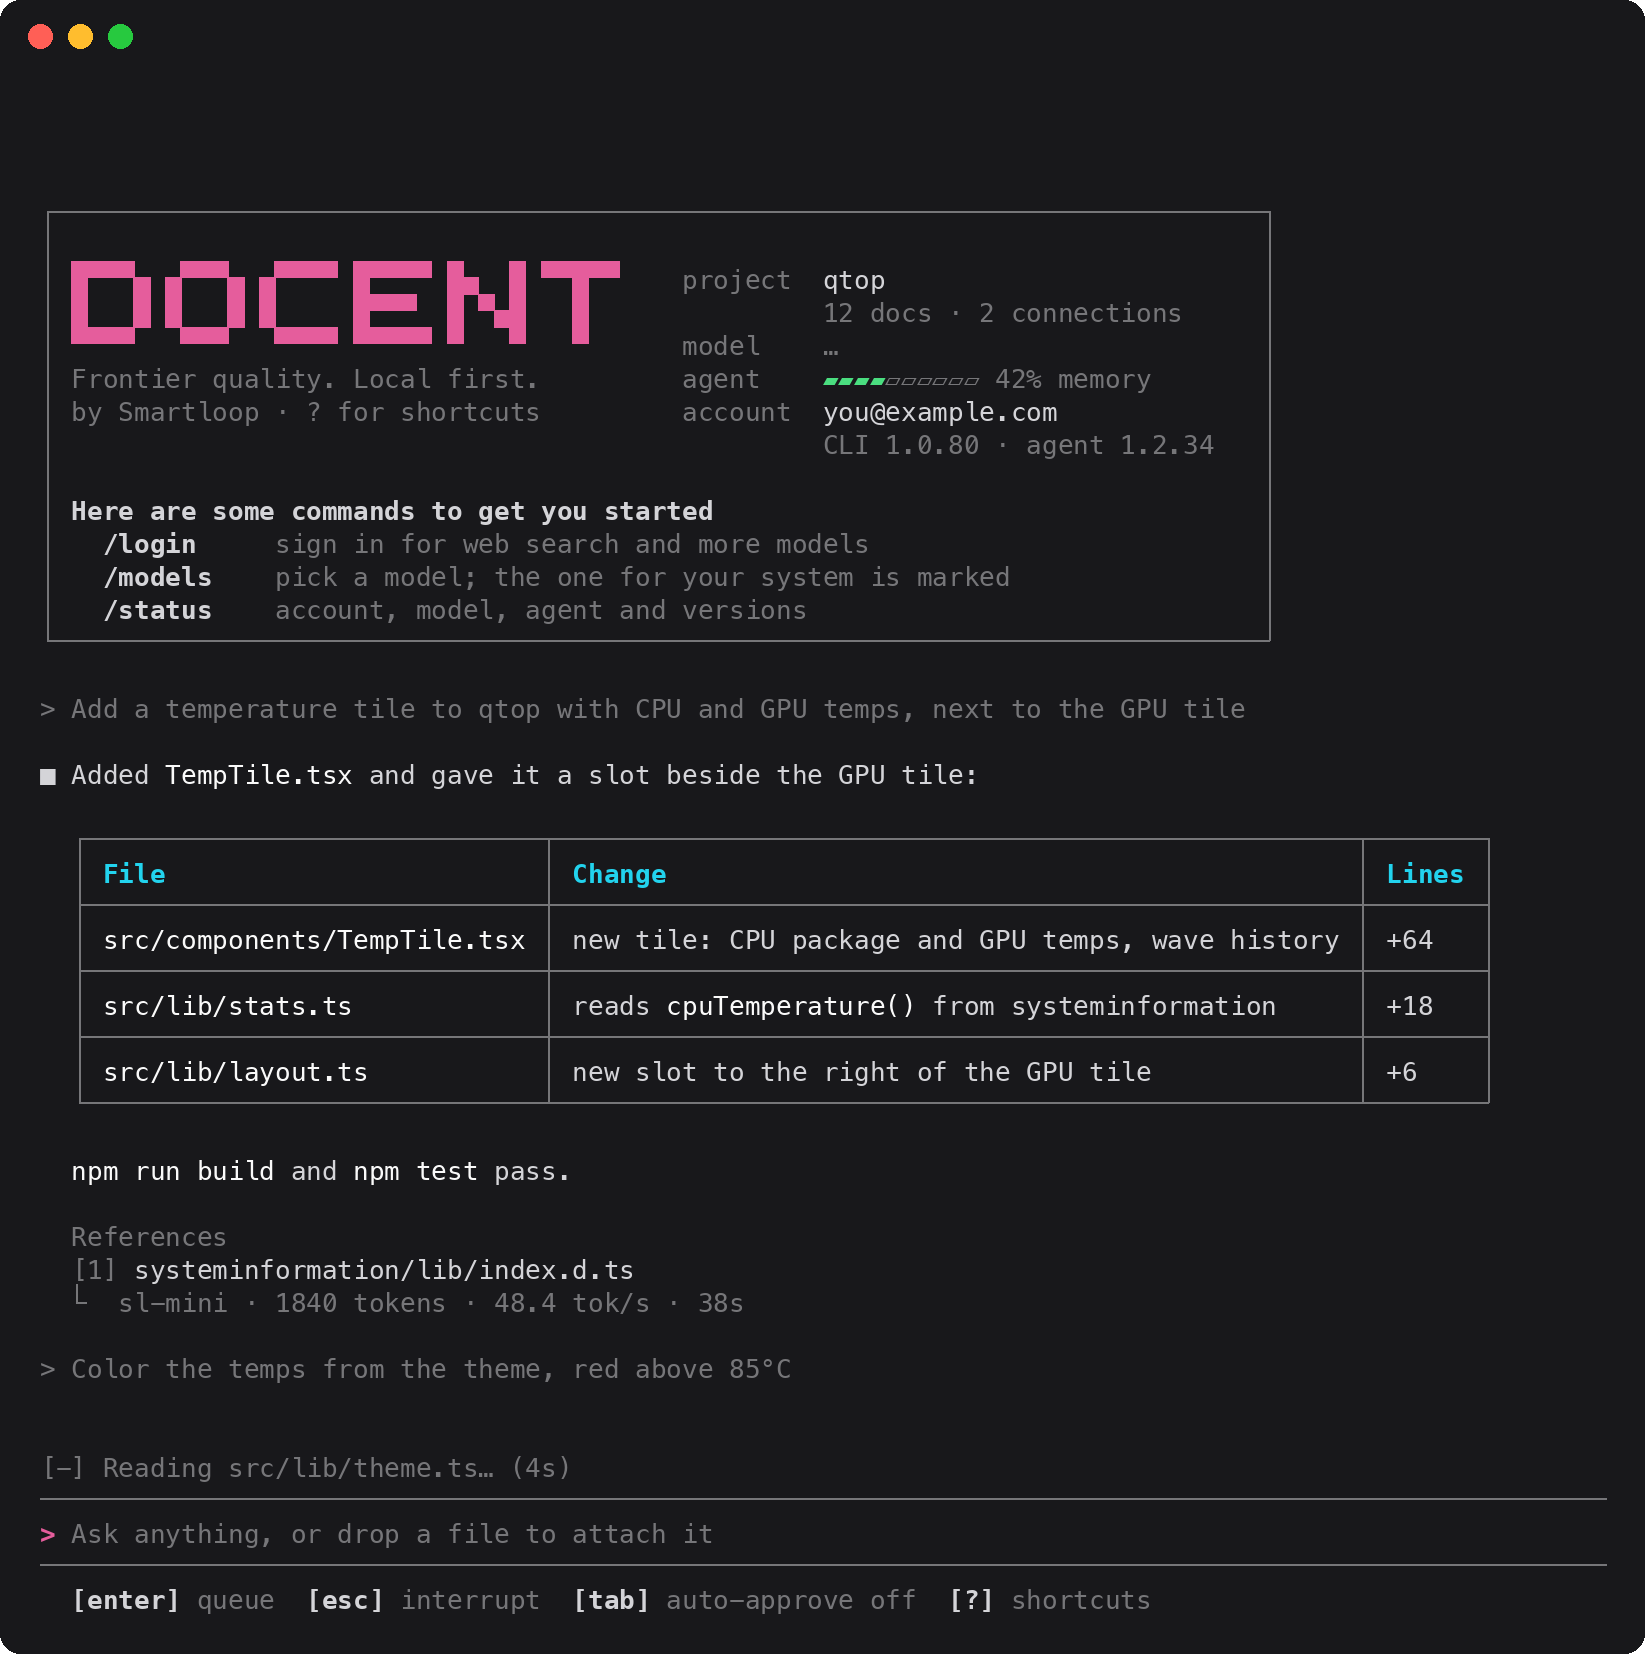
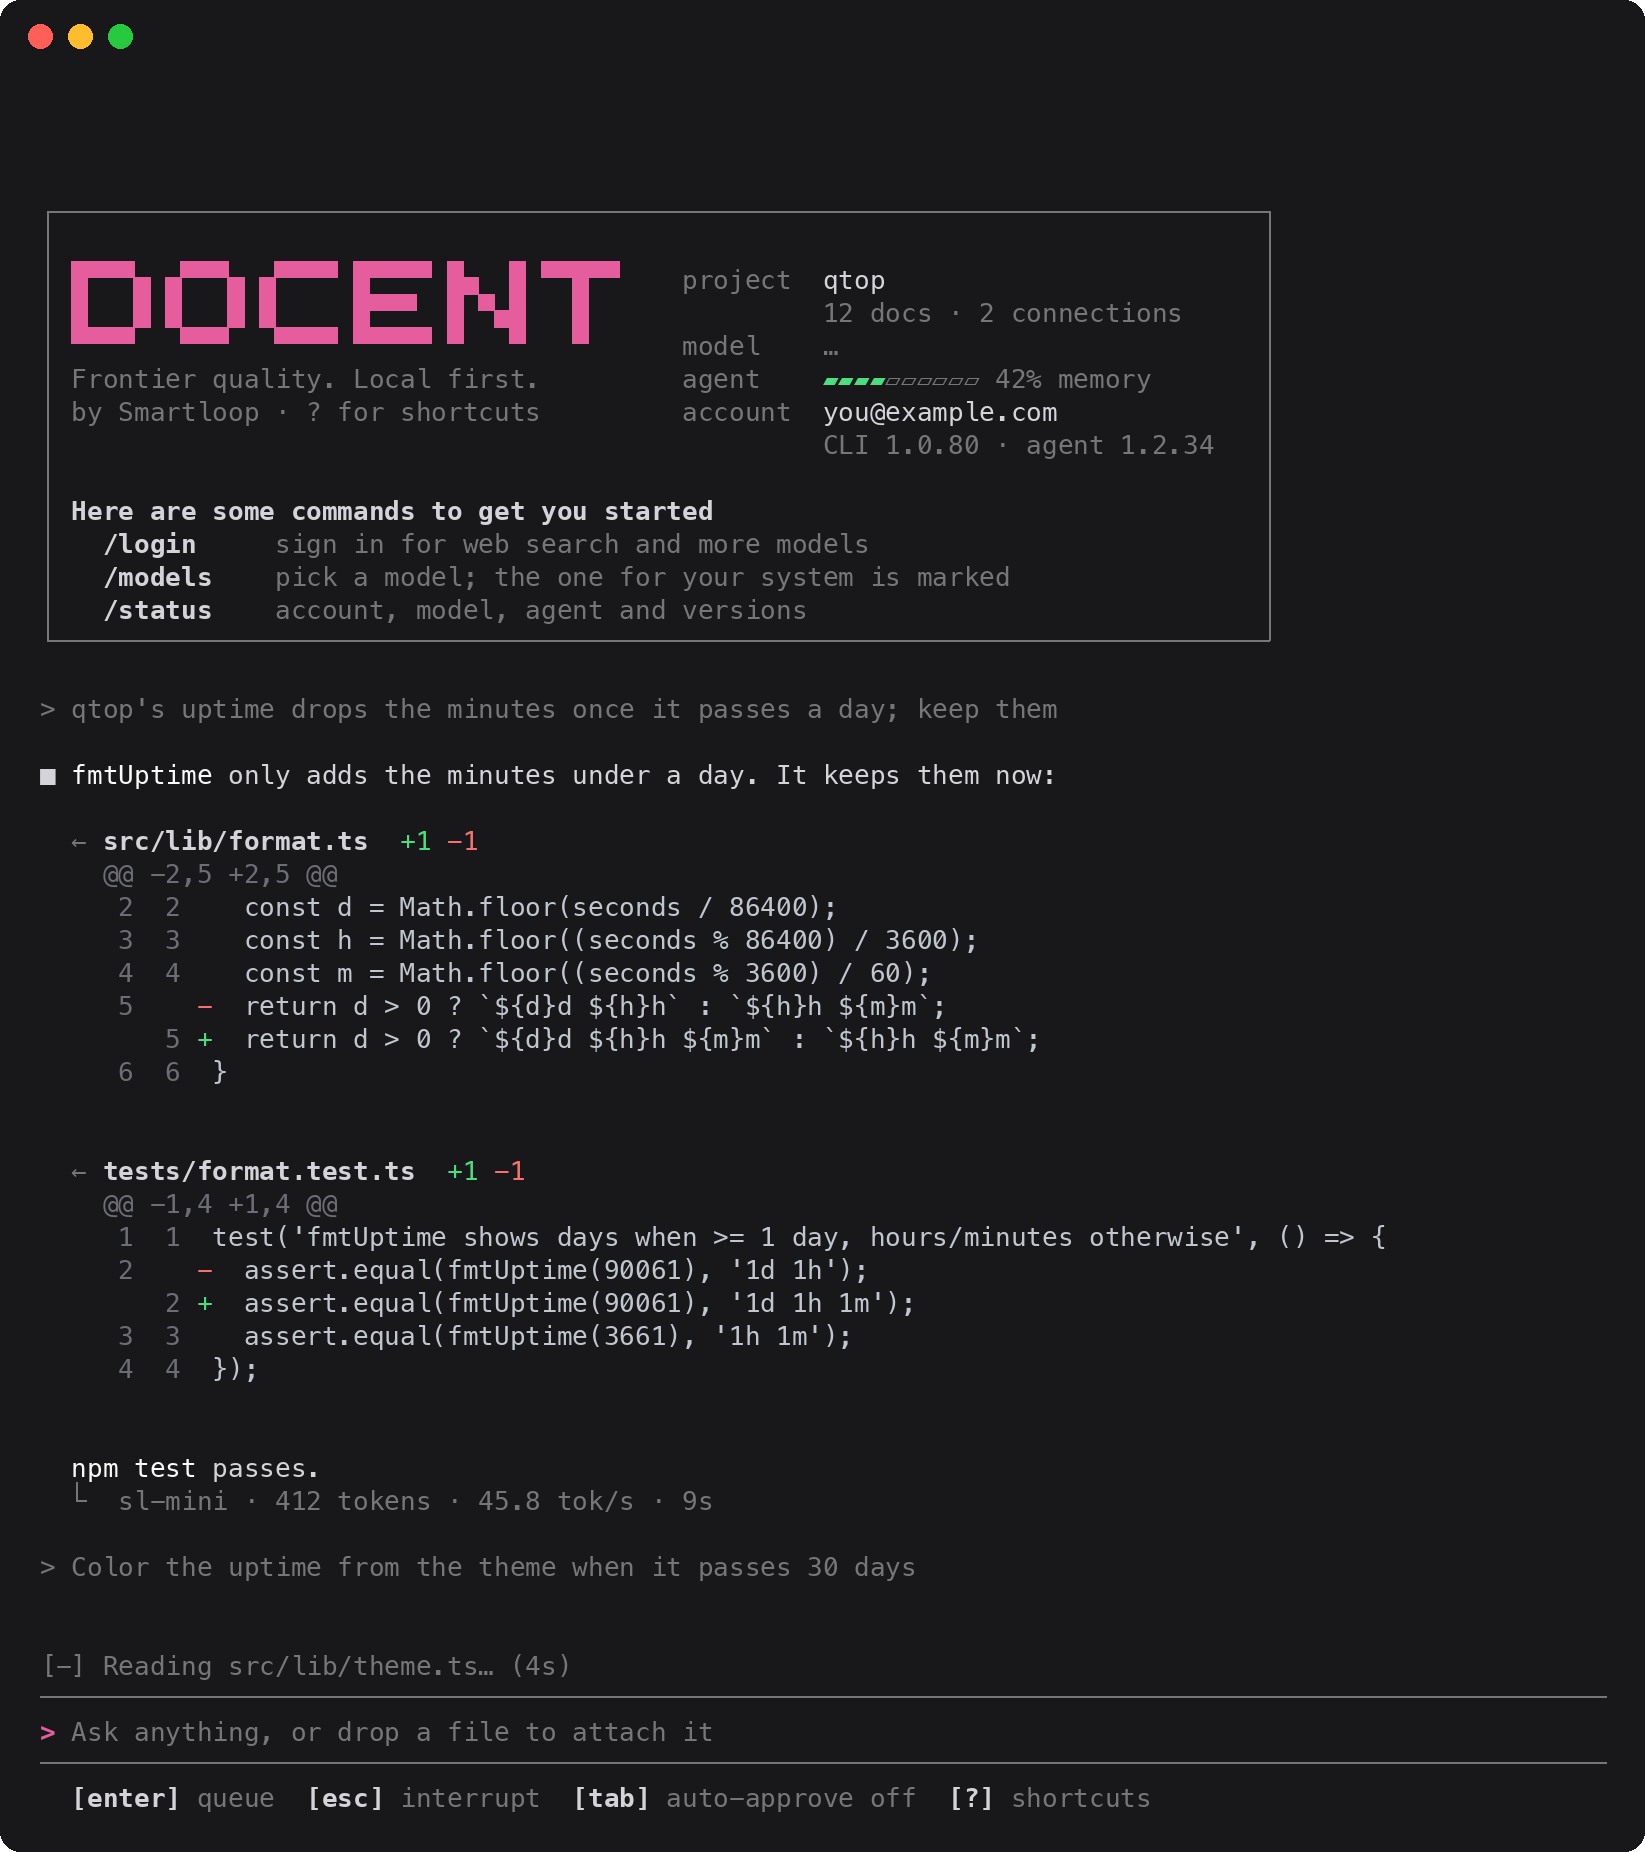
Show a coding turn in the README screenshot
The reply now edits two of qtop's files, src/lib/format.ts and its test,
each drawn as a diff, instead of summing up changes in a table.

diff --git a/src/tui.rs b/src/tui.rs
@@ -9121,24 +9121,47 @@ mod tests {
         app.agent = Some(crate::AgentState { state: "healthy".into(), memory: Some(42), documents: 12, pending: 0 });
         app.connections = Some((2, 0));
         app.account = Some(Some("you@example.com".into()));
-        app.entries.push(Entry::User("Add a temperature tile to qtop with CPU and GPU temps, next to the GPU tile".into()));
+        // Two of qtop's files as they are, for the reply's edits to show as diffs against.
+        let dir = tempfile::tempdir().unwrap();
+        std::fs::create_dir_all(dir.path().join("src/lib")).unwrap();
+        std::fs::create_dir_all(dir.path().join("tests")).unwrap();
+        std::fs::write(
+            dir.path().join("src/lib/format.ts"),
+            "export function fmtUptime(seconds: number): string {\n  \
+             const d = Math.floor(seconds / 86400);\n  \
+             const h = Math.floor((seconds % 86400) / 3600);\n  \
+             const m = Math.floor((seconds % 3600) / 60);\n  \
+             return d > 0 ? `${d}d ${h}h` : `${h}h ${m}m`;\n}\n",
+        )
+        .unwrap();
+        std::fs::write(
+            dir.path().join("tests/format.test.ts"),
+            "test('fmtUptime shows days when >= 1 day, hours/minutes otherwise', () => {\n  \
+             assert.equal(fmtUptime(90061), '1d 1h');\n  \
+             assert.equal(fmtUptime(3661), '1h 1m');\n});\n",
+        )
+        .unwrap();
+        app.entries.push(Entry::User("qtop's uptime drops the minutes once it passes a day; keep them".into()));
         app.entries.push(Entry::Reply(Reply {
             warnings: Vec::new(),
             model: Some("sl-mini".into()),
-            text: "Added `TempTile.tsx` and gave it a slot beside the GPU tile:\n\n\
-                   | File | Change | Lines |\n\
-                   |---|---|---|\n\
-                   | `src/components/TempTile.tsx` | new tile: CPU package and GPU temps, wave history | +64 |\n\
-                   | `src/lib/stats.ts` | reads `cpuTemperature()` from systeminformation | +18 |\n\
-                   | `src/lib/layout.ts` | new slot to the right of the GPU tile | +6 |\n\n\
-                   `npm run build` and `npm test` pass."
+            text: "`fmtUptime` only adds the minutes under a day. It keeps them now:\n\n\
+                   ```edit src/lib/format.ts\n\
+                   <<<<<<< SEARCH\n  return d > 0 ? `${d}d ${h}h` : `${h}h ${m}m`;\n\
+                   =======\n  return d > 0 ? `${d}d ${h}h ${m}m` : `${h}h ${m}m`;\n\
+                   >>>>>>> REPLACE\n```\n\n\
+                   ```edit tests/format.test.ts\n\
+                   <<<<<<< SEARCH\n  assert.equal(fmtUptime(90061), '1d 1h');\n\
+                   =======\n  assert.equal(fmtUptime(90061), '1d 1h 1m');\n\
+                   >>>>>>> REPLACE\n```\n\n\
+                   `npm test` passes."
                 .into(),
-            citations: vec!["systeminformation/lib/index.d.ts".into()],
-            stats: Some(TurnStats { tokens: 1840, elapsed: Duration::from_secs(38), cut_off: false }),
+            root: Some(dir.path().to_path_buf()),
+            stats: Some(TurnStats { tokens: 412, elapsed: Duration::from_secs(9), cut_off: false }),
             ended: None,
             ..Default::default()
         }));
-        app.entries.push(Entry::User("Color the temps from the theme, red above 85°C".into()));
+        app.entries.push(Entry::User("Color the uptime from the theme when it passes 30 days".into()));
         app.entries.push(Entry::Reply(Reply::default()));
         let runtime = tokio::runtime::Runtime::new().unwrap();
         app.turn = Some(Turn {
@@ -9153,7 +9176,7 @@ mod tests {
         });
         app.input = "".into();
 
-        let (width, height) = (100, 46);
+        let (width, height) = (100, 52);
         let mut terminal = Terminal::new(TestBackend::new(width, height)).unwrap();
         terminal.draw(|f| app.draw(f)).unwrap();
         let buffer = terminal.backend().buffer();

diff --git a/README.md b/README.md
@@ -6,7 +6,7 @@ Ask for a change and docent writes it: new files whole, changes to the files the
 
 It's a document assistant too: chat with your PDFs and Office files, search the web, and connect MCP servers. If no local agent is running, the CLI downloads the framework and models it needs and starts one itself.
 
-<img width="822" alt="docent run: a reply with its sources, the status line and the prompt" src="docs/tui.png" />
+<img width="822" alt="docent run: a reply editing two files, each shown as a diff, the status line and the prompt" src="docs/tui.png" />
 
 More at:
 [docs.smartloop.ai](https://smartloop.ai/docs/intro/)
